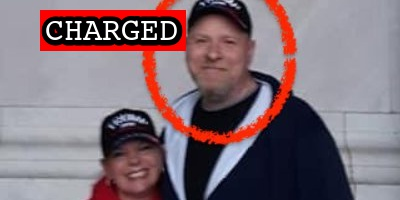
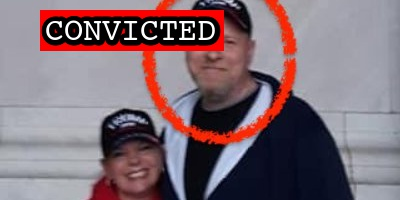
Latest import

Changed region(s): [[0.15, 0.03, 0.57, 0.27]]

diff --git a/commands/suspect-import.ts b/commands/suspect-import.ts
@@ -535,6 +535,7 @@ const linkType = (description: string, lastName?: string) => {
       return "Plea Hearing Transcript";
 
     case /Jury Verdict Form/.test(description):
+    case /Verdict Form/.test(description):
       return "Jury Verdict Form";
 
     // government motions

diff --git a/docs/_suspects/anthony-williams.md b/docs/_suspects/anthony-williams.md
@@ -36,32 +36,32 @@ published: true
 caseNumber: 1:21-cr-377
 videos:
 charges:
-  - code: 18 USC § 1512(c)(2),2
-    title: Obstruction of an Official Proceeding (Aiding and Abetting)
-    url: https://www.law.cornell.edu/uscode/text/18/1512
-    felony: true
-  - code: 18 USC § 1752(a)(1)
-    title: Entering a restricted building or grounds
-    url: https://www.law.cornell.edu/uscode/text/18/1752
-    felony: false
-  - code: 18 USC § 1752(a)(2)
-    title: Disorderly and disruptive conduct in a restricted building or grounds
-    url: https://www.law.cornell.edu/uscode/text/18/1752
-    felony: false
-  - code: 40 USC § 5104(e)(2)(D)
-    title: Disorderly Conduct in a Capitol Building
-    url: https://www.law.cornell.edu/uscode/text/40/5104
-    felony: false
-  - code: 40 USC § 5104(e)(2)(G)
-    title: Parading, demonstrating or picketing in a Capitol building
-    url: https://www.law.cornell.edu/uscode/text/40/5104
-    felony: false
+- code: 18 USC § 1512(c)(2),2
+  title: Obstruction of an Official Proceeding (Aiding and Abetting)
+  url: https://www.law.cornell.edu/uscode/text/18/1512
+  felony: true
+- code: 18 USC § 1752(a)(1)
+  title: Entering a restricted building or grounds
+  url: https://www.law.cornell.edu/uscode/text/18/1752
+  felony: false
+- code: 18 USC § 1752(a)(2)
+  title: Disorderly and disruptive conduct in a restricted building or grounds
+  url: https://www.law.cornell.edu/uscode/text/18/1752
+  felony: false
+- code: 40 USC § 5104(e)(2)(D)
+  title: Disorderly Conduct in a Capitol Building
+  url: https://www.law.cornell.edu/uscode/text/40/5104
+  felony: false
+- code: 40 USC § 5104(e)(2)(G)
+  title: Parading, demonstrating or picketing in a Capitol building
+  url: https://www.law.cornell.edu/uscode/text/40/5104
+  felony: false
 sentence:
 ---
-
 - [News Report](https://www.clickondetroit.com/news/defenders/2021/03/26/southgate-man-charged-in-connection-with-deadly-attack-on-us-capitol/)
 - [Complaint](https://www.justice.gov/usao-dc/case-multi-defendant/file/1380641/download)
 - [DOJ Press Release](https://www.justice.gov/usao-dc/case-multi-defendant/file/1380286/download)
 - [Statement of Facts](https://www.justice.gov/usao-dc/case-multi-defendant/file/1380646/download)
 - [Indictment](https://www.justice.gov/usao-dc/case-multi-defendant/file/1412756/download)
 - [DOJ Press Release (Conviction)](https://www.justice.gov/usao-dc/pr/michigan-man-found-guilty-charges-actions-related-capitol-breach)
+- [Jury Verdict Form](https://extremism.gwu.edu/sites/g/files/zaxdzs2191/f/Anthony%20Williams%20Verdict%20Form.pdf)

diff --git a/docs/_suspects/matthew-miller.md b/docs/_suspects/matthew-miller.md
@@ -36,23 +36,24 @@ published: true
 caseNumber: 1:21-cr-75
 videos:
 charges:
-  - code: 18 USC § 1512(c)(2)
-    title: Obstruction of an Official Proceeding
-    url: https://www.law.cornell.edu/uscode/text/18/1512
-    felony: true
-  - code: 18 USC § 111(a)(1) and (b)
-    title: Assaulting, resisting, or impeding certain officers or employees (using a deadly or dangerous weapon)
-    url: https://www.law.cornell.edu/uscode/text/18/111
-    felony: true
+- code: 18 USC § 1512(c)(2)
+  title: Obstruction of an Official Proceeding
+  url: https://www.law.cornell.edu/uscode/text/18/1512
+  felony: true
+- code: 18 USC § 111(a)(1) and (b)
+  title: Assaulting, resisting, or impeding certain officers or employees (using a deadly or dangerous weapon)
+  url: https://www.law.cornell.edu/uscode/text/18/111
+  felony: true
 sentence:
   - 33 months incarceration
   - 100 hours community service
   - $2000 restitution
 ---
-
 - [News Report](https://www.wbaltv.com/article/fbi-charge-matthew-miller-cooksville-us-capitol-riot/35312595)
 - [Statement of Facts](https://www.justice.gov/opa/page/file/1360201/download)
 - [Complaint](https://www.justice.gov/opa/page/file/1360201/download)
 - [Indictment](https://www.justice.gov/usao-dc/case-multi-defendant/file/1461761/download)
 - [Plea Agreement](https://www.justice.gov/usao-dc/case-multi-defendant/file/1470771/download)
 - [Statement of Offense](https://www.justice.gov/usao-dc/case-multi-defendant/file/1470776/download)
+- [Sentencing Memo](https://extremism.gwu.edu/sites/g/files/zaxdzs2191/f/Matthew%20Ryan%20Miller%20Defense%20Sentencing%20Memorandum.pdf)
+- [Judgement](https://extremism.gwu.edu/sites/g/files/zaxdzs2191/f/Matthew%20Ryan%20Miller%20Judgment.pdf)

diff --git a/docs/_suspects/aaron-mostofsky.md b/docs/_suspects/aaron-mostofsky.md
@@ -36,20 +36,19 @@ published: true
 caseNumber: 1:21-cr-138
 videos:
 charges:
-  - code: 18 USC § 231(a)(3)
-    title: Civil Disorder
-    url: https://www.law.cornell.edu/uscode/text/18/231
-    felony: true
-  - code: 18 USC § 641
-    title: Theft of Government Property
-    url: https://www.law.cornell.edu/uscode/text/18/641
-    felony: false
+- code: 18 USC § 231(a)(3)
+  title: Civil Disorder
+  url: https://www.law.cornell.edu/uscode/text/18/231
+  felony: true
+- code: 18 USC § 641
+  title: Theft of Government Property
+  url: https://www.law.cornell.edu/uscode/text/18/641
+  felony: false
 sentence:
   - 8 months incarceration
   - 200 hours community service
   - $2000 restitution
 ---
-
 - [News Report](https://www.nbcnewyork.com/news/local/brooklyn-judges-son-arrested-for-participating-in-capitol-riots-source-says/2826102/?_osource=db_npd_nbc_wnbc_twt_shr)
 - [Statement of Facts](https://www.justice.gov/usao-dc/press-release/file/1353206/download)
 - [Complaint](https://www.justice.gov/opa/page/file/1355521/download)
@@ -61,3 +60,5 @@ sentence:
 - [Defendant's Motion for a Bill of Particulars](https://extremism.gwu.edu/sites/g/files/zaxdzs2191/f/Aaron%20Mostofsky%20Motion%20for%20a%20Bill%20of%20Particulars.pdf)
 - [Plea Agreement](https://www.justice.gov/usao-dc/case-multi-defendant/file/1469586/download)
 - [Statement of Offense](https://www.justice.gov/usao-dc/case-multi-defendant/file/1469591/download)
+- [Sentencing Memo](https://extremism.gwu.edu/sites/g/files/zaxdzs2191/f/Aaron%20Mostofsky%20Defense%20Sentencing%20Memorandum.pdf)
+- [Judgement](https://extremism.gwu.edu/sites/g/files/zaxdzs2191/f/Aaron%20Mostofsky%20Judgment.pdf)

diff --git a/docs/_suspects/marilyn-fassell.md b/docs/_suspects/marilyn-fassell.md
@@ -4,15 +4,17 @@ lastName: Fassell
 hashtag: MarilynFassell
 aka:
 residence: Florida
-status: Charged
+status: Convicted
 date: 2021-09-09
 charged: 2021-09-09
 indicted:
-convicted:
+convicted: 2022-07-19
+acquitted:
 sentenced:
 dismissed:
 deceased:
 plea_hearing: 2022-07-19
+trial_date:
 sentencing:
 age: 58
 occupation: Home Health Aide
@@ -31,12 +33,17 @@ description: Click for latest case details. Suspects innocent until proven guilt
 author: seditiontrack
 layout: suspect
 published: true
-caseNumber:
+caseNumber: 1:21-cr-692
 videos:
 charges:
+- code: 40 USC § 5104(e)(2)(G)
+  title: Parading, demonstrating or picketing in a Capitol building
+  url: https://www.law.cornell.edu/uscode/text/40/5104
+  felony: false
 sentence:
 ---
-
 - [News Report](https://www.tampabay.com/news/crime/2021/09/17/largo-woman-smoked-in-capitol-during-riot-now-she-husband-face-charges/)
-- [Statement of Facts](https://extremism.gwu.edu/sites/g/files/zaxdzs2191/f/Thomas%20and%20Marilyn%20Fassell%20Statement%20of%20Facts.pdf)
-- [Information](https://extremism.gwu.edu/sites/g/files/zaxdzs2191/f/Thomas%20and%20Marilyn%20Fassell%20Information.pdf)
+- [Statement of Facts](https://www.justice.gov/usao-dc/case-multi-defendant/file/1520861/download)
+- [Information](https://www.justice.gov/usao-dc/case-multi-defendant/file/1520866/download)
+- [Plea Agreement](https://www.justice.gov/usao-dc/case-multi-defendant/file/1520871/download)
+- [Statement of Offense](https://www.justice.gov/usao-dc/case-multi-defendant/file/1520876/download)

diff --git a/docs/_suspects/robert-palmer.md b/docs/_suspects/robert-palmer.md
@@ -36,16 +36,15 @@ published: true
 caseNumber: 1:21-cr-328
 videos:
 charges:
-  - code: 18 USC § 111(a)(1) and (b)
-    title: Assaulting, resisting, or impeding certain officers or employees using a dangerous or deadly weapon
-    url: https://www.law.cornell.edu/uscode/text/18/111
-    felony: true
+- code: 18 USC § 111(a)(1) and (b)
+  title: Assaulting, resisting, or impeding certain officers or employees using a dangerous or deadly weapon
+  url: https://www.law.cornell.edu/uscode/text/18/111
+  felony: true
 sentence:
   - 63 months incarceration
   - 36 months probation
   - $500 restitution
 ---
-
 - [News Report](https://www.justice.gov/usao-dc/pr/florida-man-arrested-charged-federal-court-assaulting-mpd-officers-during-us-capitol)
 - [Complaint](https://www.justice.gov/usao-dc/case-multi-defendant/file/1393421/download)
 - [Indictment](https://www.justice.gov/usao-dc/case-multi-defendant/file/1393426/download)
@@ -53,3 +52,5 @@ sentence:
 - [Plea Agreement](https://www.justice.gov/usao-dc/case-multi-defendant/file/1438741/download)
 - [Sentencing Memo](https://extremism.gwu.edu/sites/g/files/zaxdzs2191/f/Robert%20Palmer%20Defense%20Sentencing%20Memorandum.pdf)
 - [Statement of Offense](https://www.justice.gov/usao-dc/case-multi-defendant/file/1438746/download)
+- [Sentencing Hearing Transcript](https://extremism.gwu.edu/sites/g/files/zaxdzs2191/f/Robert%20Palmer%20Sentencing%20Hearing%20Transcript.pdf)
+- [Judgement](https://extremism.gwu.edu/sites/g/files/zaxdzs2191/f/Robert%20Palmer%20Judgment.pdf)

diff --git a/docs/_suspects/thomas-fassell.md b/docs/_suspects/thomas-fassell.md
@@ -4,15 +4,17 @@ lastName: Fassell
 hashtag: ThomasFassell
 aka:
 residence: Florida
-status: Charged
+status: Convicted
 date: 2021-09-09
 charged: 2021-09-09
 indicted:
-convicted:
+convicted: 2022-07-19
+acquitted:
 sentenced:
 dismissed:
 deceased:
 plea_hearing: 2022-07-19
+trial_date:
 sentencing:
 age: 67
 occupation:
@@ -31,12 +33,17 @@ description: Click for latest case details. Suspects innocent until proven guilt
 author: seditiontrack
 layout: suspect
 published: true
-caseNumber:
+caseNumber: 1:21-cr-692
 videos:
 charges:
+- code: 40 USC § 5104(e)(2)(G)
+  title: Parading, demonstrating or picketing in a Capitol building
+  url: https://www.law.cornell.edu/uscode/text/40/5104
+  felony: false
 sentence:
 ---
-
 - [News Report](https://www.tampabay.com/news/crime/2021/09/17/largo-woman-smoked-in-capitol-during-riot-now-she-husband-face-charges/)
-- [Statement of Facts](https://extremism.gwu.edu/sites/g/files/zaxdzs2191/f/Thomas%20and%20Marilyn%20Fassell%20Statement%20of%20Facts.pdf)
-- [Information](https://extremism.gwu.edu/sites/g/files/zaxdzs2191/f/Thomas%20and%20Marilyn%20Fassell%20Information.pdf)
+- [Statement of Facts](https://www.justice.gov/usao-dc/case-multi-defendant/file/1520831/download)
+- [Information](https://www.justice.gov/usao-dc/case-multi-defendant/file/1520836/download)
+- [Plea Agreement](https://www.justice.gov/usao-dc/case-multi-defendant/file/1520846/download)
+- [Statement of Offense](https://www.justice.gov/usao-dc/case-multi-defendant/file/1520851/download)

diff --git a/docs/_suspects/matthew-greene.md b/docs/_suspects/matthew-greene.md
@@ -36,17 +36,16 @@ published: true
 caseNumber: 1:21-cr-52
 videos:
 charges:
-  - code: 18 USC § 371
-    title: Conspiracy to commit an offense against the United States
-    url: https://www.law.cornell.edu/uscode/text/18/371
-    felony: true
-  - code: 18 USC § 1512(c)(2)
-    title: Obstruction of an Official Proceeding
-    url: https://www.law.cornell.edu/uscode/text/18/1512
-    felony: true
+- code: 18 USC § 371
+  title: Conspiracy to commit an offense against the United States
+  url: https://www.law.cornell.edu/uscode/text/18/371
+  felony: true
+- code: 18 USC § 1512(c)(2)
+  title: Obstruction of an Official Proceeding
+  url: https://www.law.cornell.edu/uscode/text/18/1512
+  felony: true
 sentence:
 ---
-
 - [News Report](https://spectrumlocalnews.com/nys/central-ny/public-safety/2021/04/21/syracuse--proud-boy--charged-in-jan--6-capitol-riot)
 - [Indictment](https://www.justice.gov/usao-dc/case-multi-defendant/file/1388681/download)
 - [FBI Statement (Twitter)](https://twitter.com/FBIAlbany/status/1384996862026035205)
@@ -56,3 +55,4 @@ sentence:
 - [Plea Agreement](https://www.justice.gov/usao-dc/case-multi-defendant/file/1468981/download)
 - [Statement of Facts](https://www.justice.gov/usao-dc/case-multi-defendant/file/1468986/download)
 - [Statement of Offense](https://www.justice.gov/usao-dc/case-multi-defendant/file/1468986/download)
+- [Plea Hearing Transcript](https://extremism.gwu.edu/sites/g/files/zaxdzs2191/f/Matthew%20Greene%20Plea%20Hearing%20Transcript.pdf)

diff --git a/docs/_suspects/mark-grods.md b/docs/_suspects/mark-grods.md
@@ -36,20 +36,20 @@ published: true
 caseNumber: 1:21-cr-437
 videos:
 charges:
-  - code: 18 USC § 371
-    title: Conspiracy to commit an offense against the United States
-    url: https://www.law.cornell.edu/uscode/text/18/371
-    felony: true
-  - code: 18 USC § 1512(c)(2)
-    title: Obstruction of an Official Proceeding
-    url: https://www.law.cornell.edu/uscode/text/18/1512
-    felony: true
+- code: 18 USC § 371
+  title: Conspiracy to commit an offense against the United States
+  url: https://www.law.cornell.edu/uscode/text/18/371
+  felony: true
+- code: 18 USC § 1512(c)(2)
+  title: Obstruction of an Official Proceeding
+  url: https://www.law.cornell.edu/uscode/text/18/1512
+  felony: true
 sentence:
 ---
-
 - [News Report](https://www.huffpost.com/entry/mark-grods-oath-keeper-capitol-attack-trump_n_60dc7417e4b058eea49d79ad)
 - [DOJ Press Release](https://www.justice.gov/usao-dc/case-multi-defendant/file/1408091/download)
 - [Plea Agreement](https://www.justice.gov/usao-dc/case-multi-defendant/file/1409401/download)
 - [Statement of Facts](https://www.justice.gov/usao-dc/case-multi-defendant/file/1409406/download)
 - [Information](https://www.justice.gov/usao-dc/case-multi-defendant/file/1408091/download)
 - [Statement of Offense](https://www.justice.gov/usao-dc/case-multi-defendant/file/1409406/download)
+- [Plea Hearing Transcript](https://extremism.gwu.edu/sites/g/files/zaxdzs2191/f/Mark%20Grods%20Plea%20Hearing%20Transcript.pdf)

diff --git a/docs/_suspects/daryl-johnson.md b/docs/_suspects/daryl-johnson.md
@@ -36,20 +36,21 @@ published: true
 caseNumber: 1:21-cr-00407
 videos:
 charges:
-  - code: 18 USC § 231(a)(3)
-    title: Civil Disorder
-    url: https://www.law.cornell.edu/uscode/text/18/231
-    felony: true
+- code: 18 USC § 231(a)(3)
+  title: Civil Disorder
+  url: https://www.law.cornell.edu/uscode/text/18/231
+  felony: true
 sentence:
   - 30 days incarceration
   - $2000 fine
   - $2000 restitution
   - 1 year probation
 ---
-
 - [News Report](https://globegazette.com/community/mcpress/news/st-ansgar-man-and-his-son-arrested-for-alleged-involvement-in-january-u-s-capitol/article_b933ccd3-4b4f-5133-b737-78c3c0886510.html)
 - [Statement of Facts](https://www.justice.gov/usao-dc/case-multi-defendant/file/1403436/download)
 - [Information](https://extremism.gwu.edu/sites/g/files/zaxdzs2191/f/Daryl%20and%20Daniel%20Johnson%20Information.pdf)
 - [DOJ Press Release](https://www.justice.gov/usao-dc/pr/father-and-son-plead-guilty-felony-charges-offenses-committed-during-jan-6-capitol-breach)
 - [Plea Agreement](https://www.justice.gov/usao-dc/case-multi-defendant/file/1469036/download)
 - [Statement of Offense](https://www.justice.gov/usao-dc/case-multi-defendant/file/1469041/download)
+- [Sentencing Memo](https://extremism.gwu.edu/sites/g/files/zaxdzs2191/f/Daryl%20Johnson%20Defense%20Supplemental%20Sentencing%20Memorandum.pdf)
+- [Judgement](https://extremism.gwu.edu/sites/g/files/zaxdzs2191/f/Daryl%20Johnson%20Judgment.pdf)

diff --git a/docs/_suspects/christian-secor.md b/docs/_suspects/christian-secor.md
@@ -36,13 +36,12 @@ published: true
 caseNumber: 1:21-cr-157
 videos:
 charges:
-  - code: 18 USC § 1512(c)(2)
-    title: Obstruction of an Official Proceeding
-    url: https://www.law.cornell.edu/uscode/text/18/1512
-    felony: true
+- code: 18 USC § 1512(c)(2)
+  title: Obstruction of an Official Proceeding
+  url: https://www.law.cornell.edu/uscode/text/18/1512
+  felony: true
 sentence:
 ---
-
 - [News Report](https://losangeles.cbslocal.com/2021/02/17/fbi-arrests-costa-mesa-man-christian-secor-charged-in-us-capitol-riot/)
 - [Statement of Facts](https://extremism.gwu.edu/sites/g/files/zaxdzs2191/f/Christian%20Secor%20Affidavit%20in%20Support%20of%20Criminal%20Complaint%20and%20Arrest%20Warrant.pdf)
 - [Indictment](https://www.justice.gov/usao-dc/case-multi-defendant/file/1460111/download)
@@ -50,3 +49,4 @@ sentence:
 - [Government's Opposition to Modifying Conditions of Release](https://extremism.gwu.edu/sites/g/files/zaxdzs2191/f/Christian%20Secor%20Govt%20Opposition%20to%20Motion%20for%20Review%20of%20Bond%20Decision.pdf)
 - [Plea Agreement](https://www.justice.gov/usao-dc/case-multi-defendant/file/1507211/download)
 - [Statement of Offense](https://www.justice.gov/usao-dc/case-multi-defendant/file/1507216/download)
+- [Detention Order](https://extremism.gwu.edu/sites/g/files/zaxdzs2191/f/Christian%20Secor%20Defense%20Motion%20for%20Review%20and%20Revocation%20of%20Detention%20Order.pdf)

diff --git a/docs/_suspects/nicholas-languerand.md b/docs/_suspects/nicholas-languerand.md
@@ -36,15 +36,14 @@ published: true
 caseNumber:
 videos:
 charges:
-  - code: 18 USC § 111(a)(1) and (b)
-    title: Assaulting, resisting, or impeding certain officers or employees (using a deadly or dangerous weapon)
-    url: https://www.law.cornell.edu/uscode/text/18/111
-    felony: true
+- code: 18 USC § 111(a)(1) and (b)
+  title: Assaulting, resisting, or impeding certain officers or employees (using a deadly or dangerous weapon)
+  url: https://www.law.cornell.edu/uscode/text/18/111
+  felony: true
 sentence:
   - 44 months incarceration
   - $500 restitution
 ---
-
 - [News Report](https://www.wyff4.com/article/instagram-post-leads-to-little-river-mans-arrest-for-alleged-role-in-deadly-capitol-riots-horry-county/36136043)
 - [Complaint](https://www.justice.gov/usao-dc/case-multi-defendant/file/1388816/download)
 - [Statement of Facts](https://www.justice.gov/usao-dc/case-multi-defendant/file/1388821/download)
@@ -52,3 +51,4 @@ sentence:
 - [Plea Agreement](https://www.justice.gov/usao-dc/case-multi-defendant/file/1446216/download)
 - [Sentencing Memo](https://extremism.gwu.edu/sites/g/files/zaxdzs2191/f/Nicholas%20Languerand%20Defense%20Sentencing%20Memorandum.pdf)
 - [Statement of Offense](https://www.justice.gov/usao-dc/case-multi-defendant/file/1446221/download)
+- [Judgement](https://extremism.gwu.edu/sites/g/files/zaxdzs2191/f/Nicholas%20Languerand%20Judgment.pdf)
